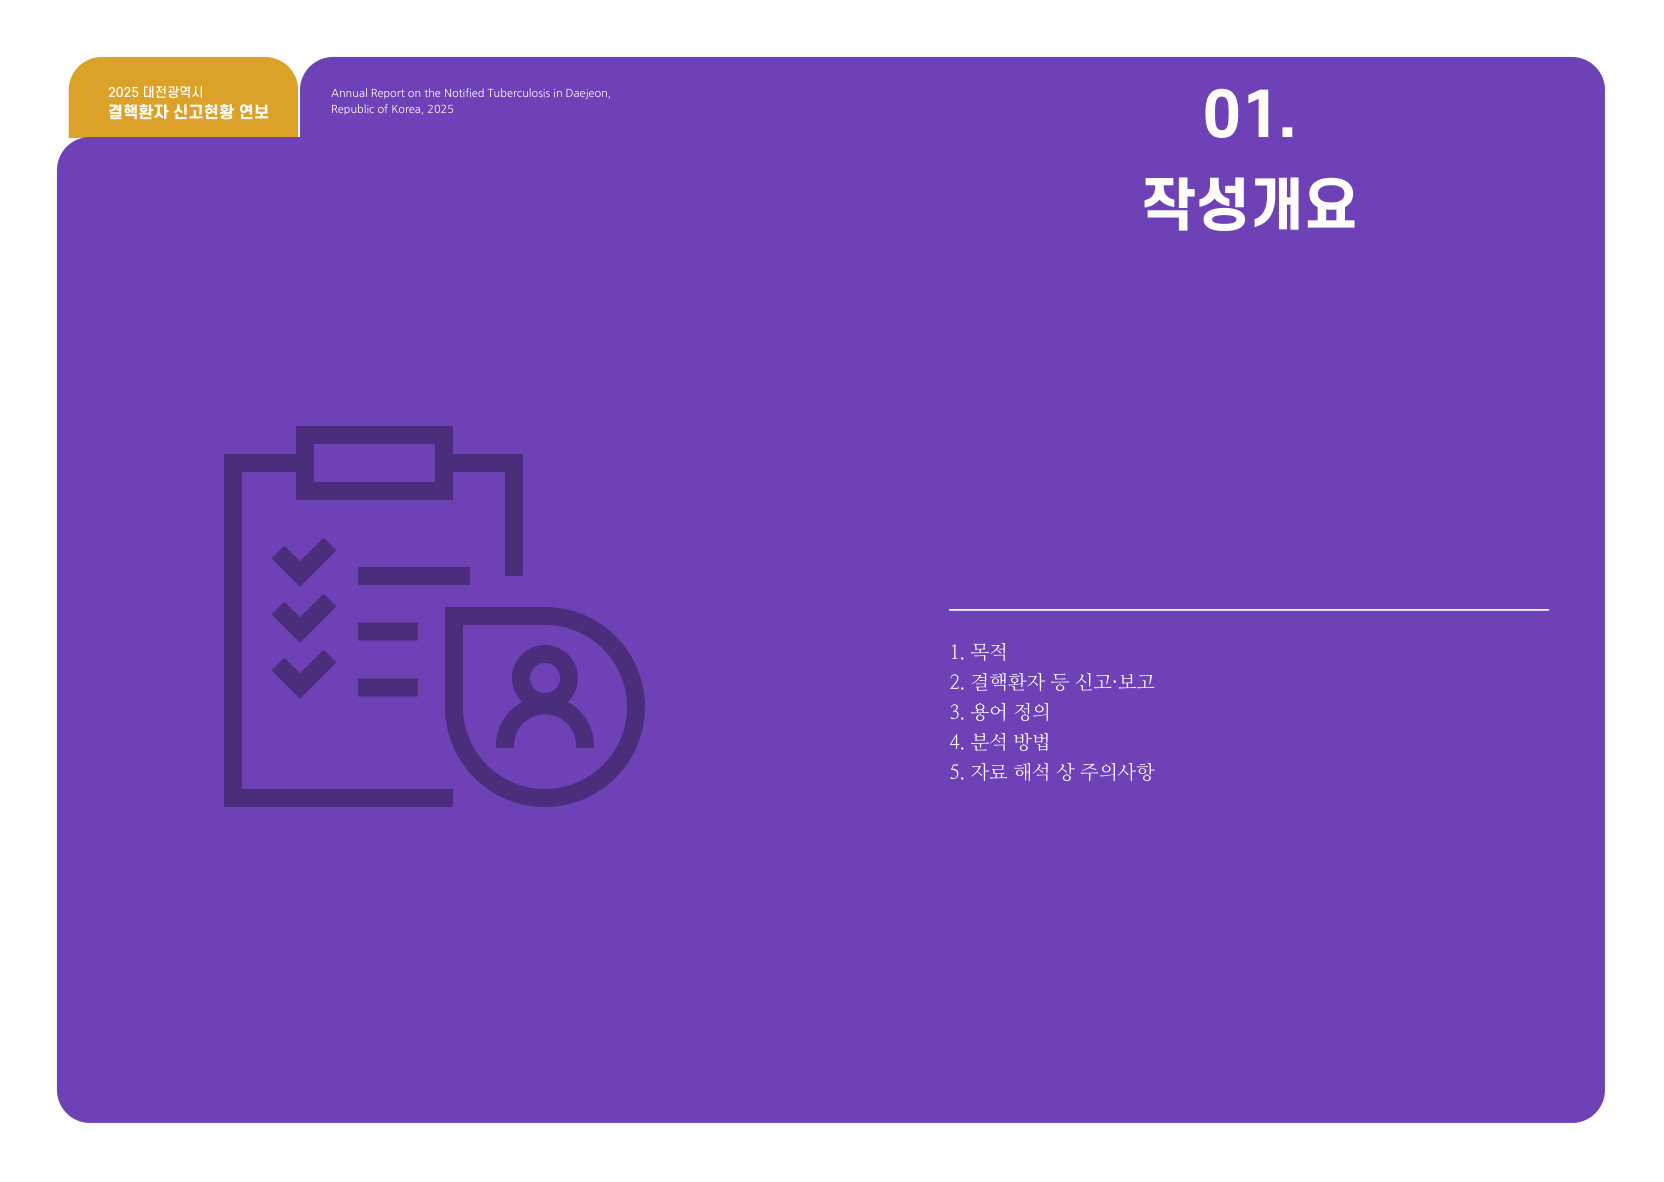
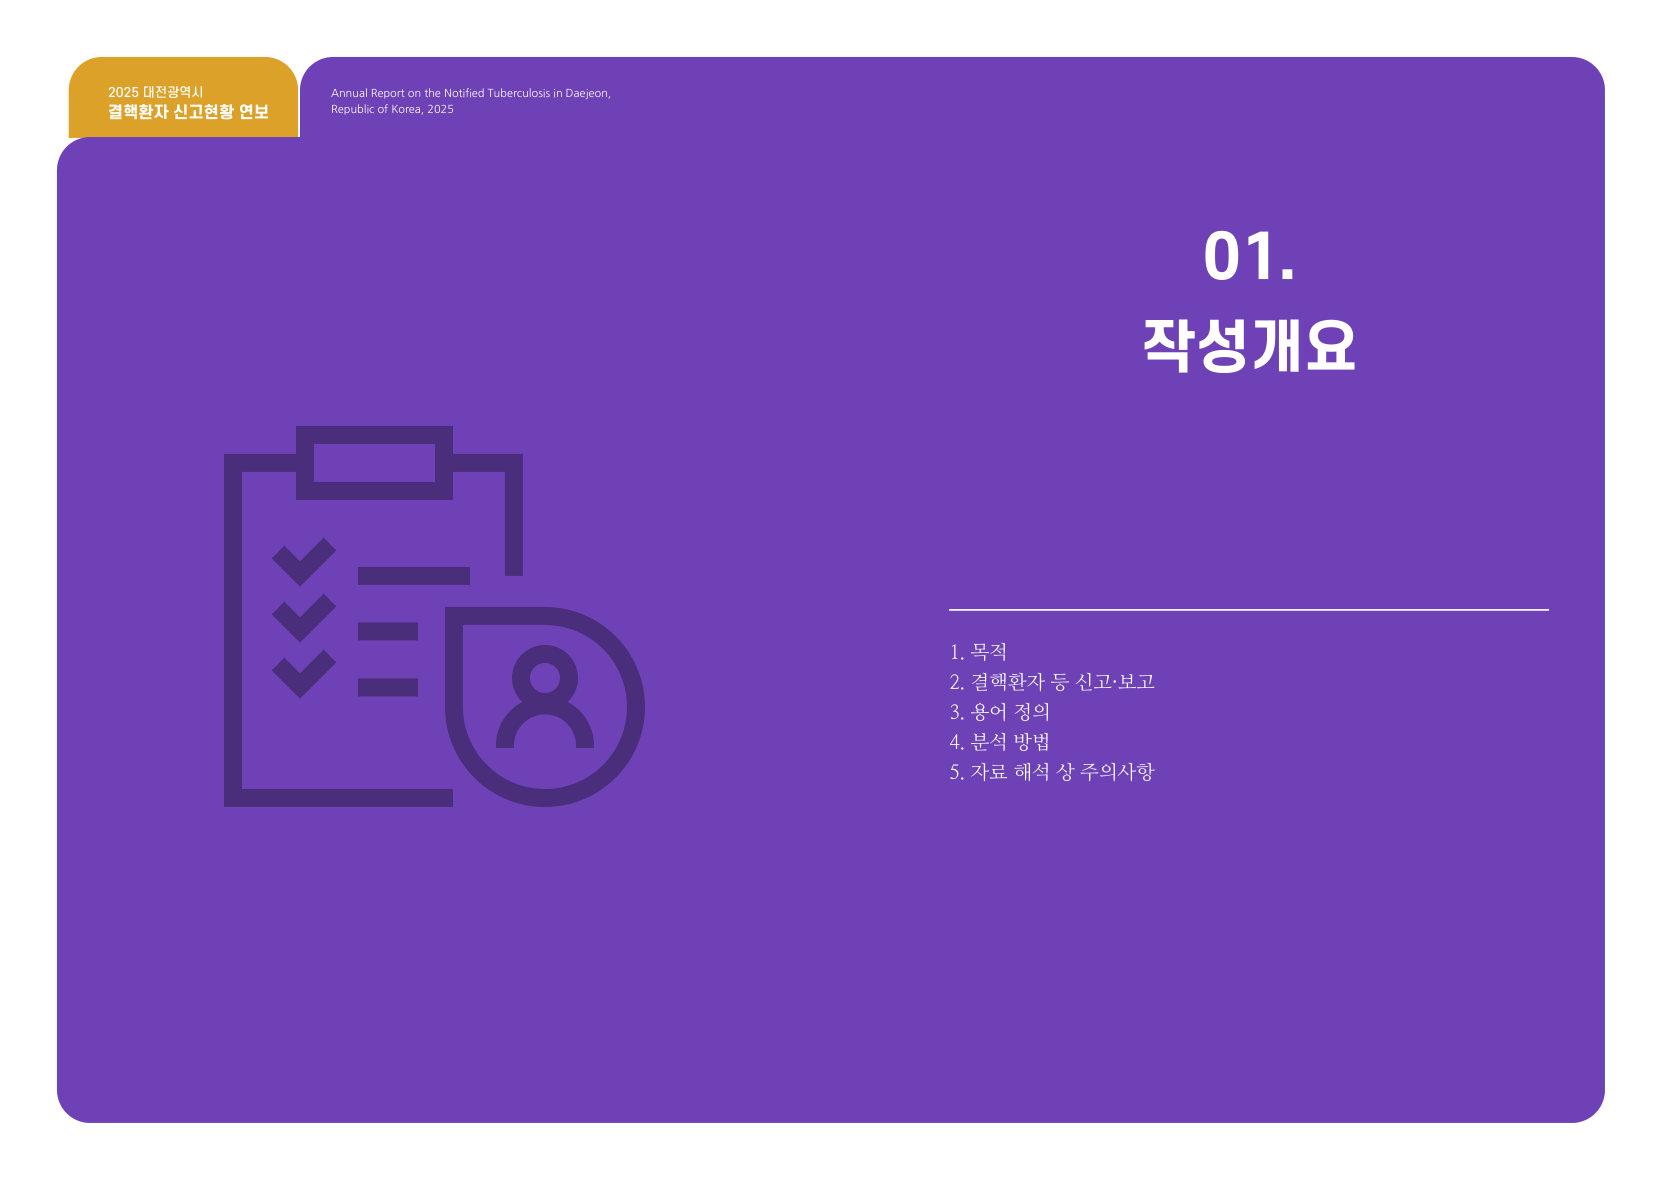
컨펌웹: 결핵 간지 오른쪽 장 번호·대제목을 아래로 내림

Changed region(s): [[0.6875, 0.1523, 0.8125, 0.2437], [0.6875, 0.2741, 0.8125, 0.335], [0.7188, 0.0609, 0.7812, 0.1218]]

diff --git a/index.html b/index.html
@@ -177,7 +177,7 @@ body::before{content:"";position:fixed;inset:0 0 auto;height:env(safe-area-inset
 
 <script>
 // 이미지를 바꿔 올릴 때마다 IMG_V를 올리면 브라우저·CDN 캐시와 상관없이 새 이미지가 보임
-const IMG_V = "20261119-9";
+const IMG_V = "20261119-10";
 const IMG = n => "img/" + n + "?v=" + IMG_V;
 const PLANS = {
   "1": {
